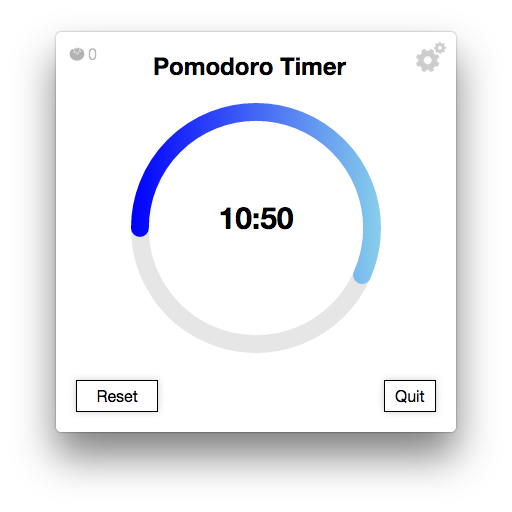
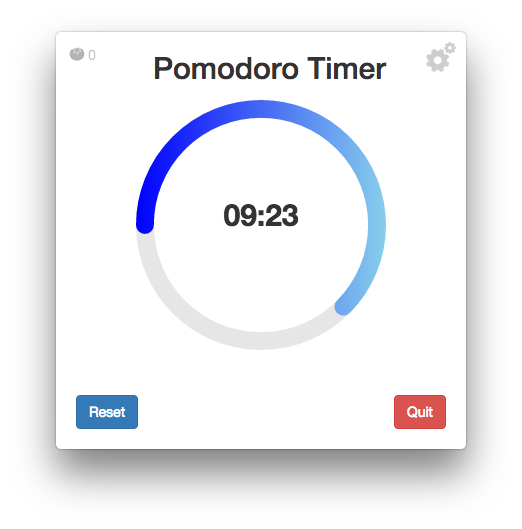
Update screenshot
Also using localpath in README instead of link on github content

diff --git a/readme.md b/readme.md
@@ -2,7 +2,7 @@
 
 Time managment tool for Windows and OS X based on [Pomodoro Technique](https://en.wikipedia.org/wiki/Pomodoro_Technique). Build with love and [electron](https://github.com/atom/electron).
 
-![Here may be screenshot](https://raw.githubusercontent.com/G07cha/pomodoro/master/screenshot.png)
+![Here may be screenshot](screenshot.png)
 
 ## Features
 - Alerts
